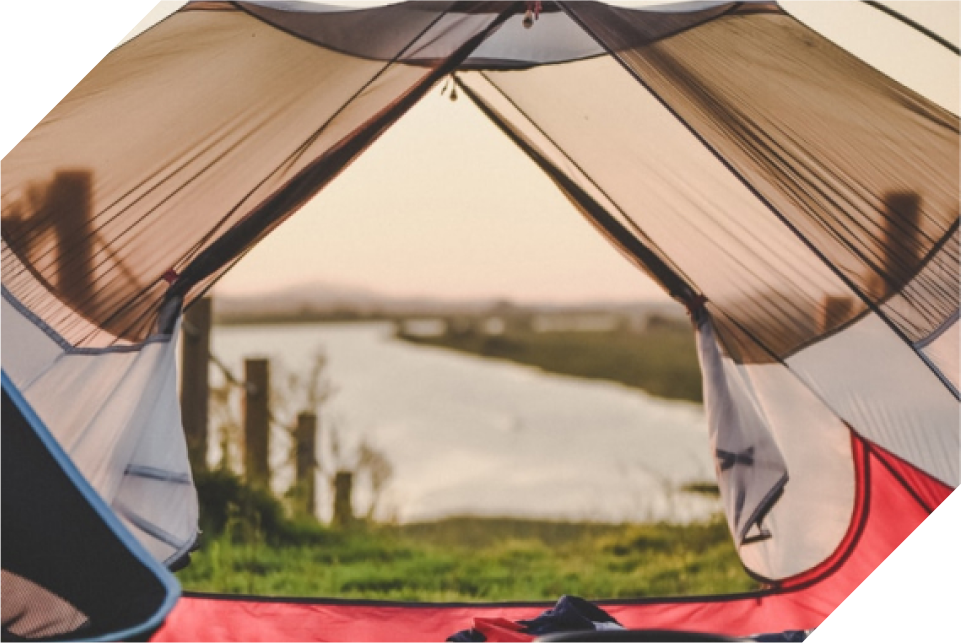
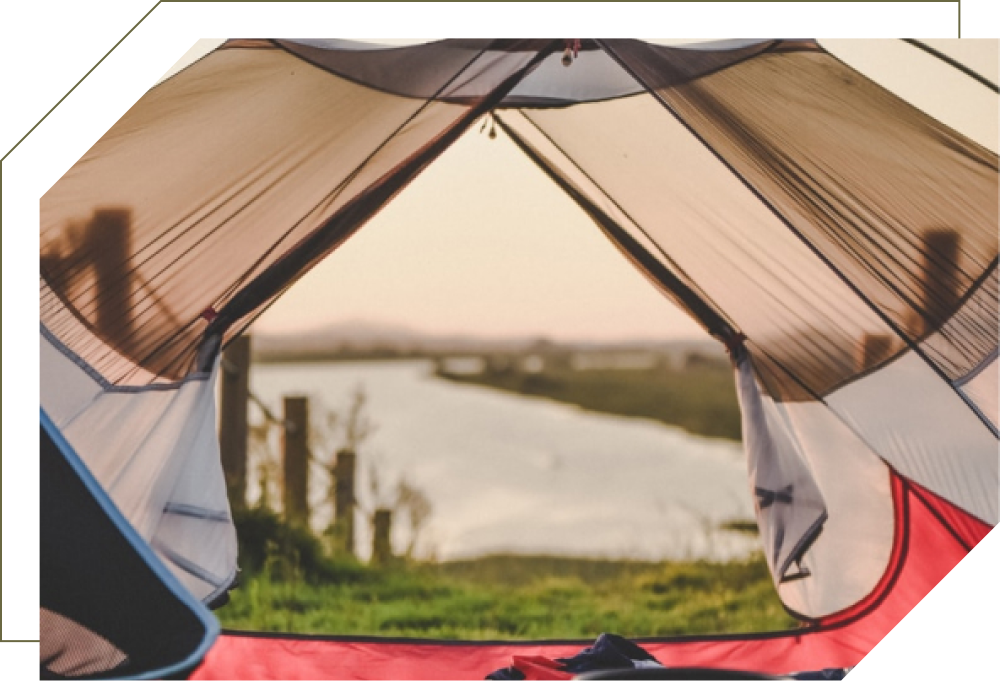
footer未完成

diff --git a/home-html-css/home.html b/home-html-css/home.html
@@ -154,15 +154,62 @@
           <div class="row">
             <div class="col-md-6">
               <div class="page3-box">
-                <img class="img1" src="./img/img01.png" alt="pic1">
+                <img class="img" src="./img/img01.png" alt="pic1">
               </div>
-              
+            </div>
+            <div class="col-md-6 page-text">
+              <div class="text-icon">
+                <img width="70" height="70" src="./img/text-icon1.png" alt="icon">
+              </div>
+              <h3>優質環保營地</h3>
+              <p>本網站的環保營地，根據當地特色，選用不同的環保路徑，有些人採用當地食材提供旅客用膳；有些提供環保體驗讓人了解到環境與人息息相關；有些則選用Eco-friendly的沐浴用品，不僅保護環境，也讓遊客可以試著踏出舒適圈之外。</p>
+              <button type="button" class="btn btn-lg">露營去</button>
             </div>
           </div>
         </div>
     </div>
     <div class="row page4">
-          
+      <div class="container">
+        <div class="row">
+          <div class="col-md-6 page-text">
+            <div class="text-icon">
+              <img width="70" height="70" src="./img/text-icon1.png" alt="icon">
+            </div>
+            <h3>回收兌換點數</h3>
+            <p>只要本網站訂購露營營地，即可享有參加活動的資格。參加就是對環保盡一份心力，我們不要求回收的數量，不限定回收的種類，只要整理好在check-out的時候交由營主審核完畢，即可獲得點數！該點數可於本網站購物並直接兌換商品。隨手做環保！世界更美好！！</p>
+            <button type="button" class="btn btn-lg">參加去</button>
+          </div>
+          <div class="col-md-6">
+            <div class="page3-box">
+              <img class="img" src="./img/img02.png" alt="pic2">
+            </div>
+          </div>
+        </div>
+      </div>
+    </div>
+    <div class="row page5">
+      <div class="container">
+        <div class="row">
+          <div class="col-md-6">
+            <div class="page3-box">
+              <img class="img" src="./img/img03.png" alt="pic3">
+            </div>
+          </div>
+          <div class="col-md-6 page-text">
+            <div class="text-icon">
+              <img width="70" height="70" src="./img/text-icon1.png" alt="icon">
+            </div>
+            <h3>優質環保商品</h3>
+            <p>本網站的商品嚴選對環境盡一份心力，無論是對水質不會造成優養化的沐浴乳，或者是每重複使用一次就少一個塑膠杯的環保杯，至使用回收塑膠做成的夾腳拖，皆是對環保有益處的商品。應有盡有。</p>
+            <button type="button" class="btn btn-lg">購物去</button>
+          </div>
+        </div>
+      </div>
+    </div>
+    <div class="footer">
+         <div class="footer-icon">
+           
+         </div>
     </div>
     <!-- Optional JavaScript -->
     <!-- jQuery first, then Popper.js, then Bootstrap JS -->

diff --git a/home-html-css/style.css b/home-html-css/style.css
@@ -118,20 +118,55 @@ nav a:hover{
     z-index: -2;
   }
   .page3-box{
-    clip-path: polygon(30% 0, 100% 0, 100% 75%, 70% 100%, 0 100%, 0 25%);
-    width: 600px;
-    height: 408px;
-    border: 5px solid #6A6842;
+    width: 550px;
+    height: 374px;
   }
-  .img1{
-  
+  .img{
+    width: 100%;
+    height: 100%;
+    object-fit: cover;
+    margin-top: 10px;
   }
   .page4{
     background: url("./img/page4.png");
     position: absolute;
     width: 1930px;
     height: 1200px;
-    top:3205px;
+    top: 3205px;
     z-index: -3;
   }
-  
+  .text-icon{
+    position: absolute;
+  }
+  .page-text h3{
+    font-size: 50px;
+    margin-left: 30px;
+    color: #6A6842;
+  }
+  .page-text p{
+    font-size: 18px;
+    color: #6A6842;
+    margin: 30px;
+  }
+  .page-text button{
+    background: #C15F2E;
+    color: #fff;
+    margin-left: 30px;
+  }
+  .page5{
+    background: url("./img/page5.png");
+    position: absolute;
+    margin-top: 50px;
+    width: 1930px;
+    height: 1200px;
+    top: 4100px;
+    z-index: -4;
+  }
+  .footer{
+    background: url("./img/footer.png");
+    position: absolute;
+    width: 1915px;
+    height: 567px;
+    top: 5000px;
+    margin-bottom: 100px;
+  }
